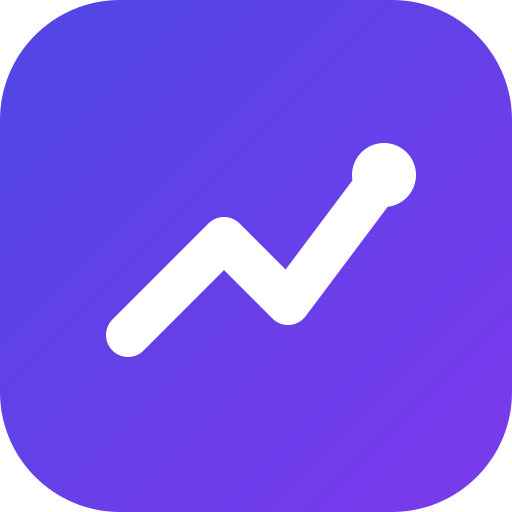
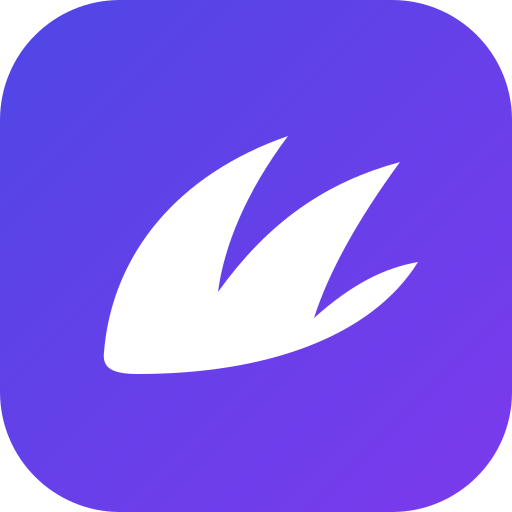
เปลี่ยนไอคอนเป็นรูปปีก · ตัด "บัญชีร้าน" และยอดรวมทุกบัญชีออก
ไอคอน
  เปลี่ยนจากเส้นกราฟขาขึ้นเป็นรูปปีกที่มีขนซ้อนกันสามชั้น
  วาดเป็นทรงตันชิ้นเดียว ไม่ใช้เส้นบาง เพราะต้องอ่านออกตอนเป็น favicon
  ขนาด 16px ซึ่งเส้นบางจะหายไปกลายเป็นจุดเบลอ
  สร้าง PNG ใหม่ครบทุกขนาดจากต้นฉบับ SVG ไฟล์เดียว

ตัดข้อความออก
  "บัญชีร้าน" ใต้ชื่อแอปที่หน้าล็อกอิน และในชื่อของ manifest
  เหลือ tidpeek อย่างเดียว

ตัดยอดรวมทุกบัญชีออกจากแถบบน
  ยอดรวมจะถูกต้องก็ต่อเมื่อตั้งยอดตั้งต้นของทุกบัญชีไว้ตรงกับความจริง
  ถ้ายังไม่ได้ตั้ง มันจะโชว์ติดลบทั้งที่เงินจริงไม่ได้ติดลบ
  ตัวเลขที่ผิดแย่กว่าไม่มีตัวเลข เพราะคนจะเชื่อแล้วตัดสินใจผิด
  ยอดรายบัญชียังดูได้ที่หน้าตั้งค่า
  ลบ getTotalBalance ที่กลายเป็นโค้ดตายทิ้งด้วย

กันไฟล์สำรองไม่ให้ขึ้น git
  backup*.json และไฟล์ที่ส่งออก มีชื่อร้านกับรายการเงินอยู่ข้างใน

Changed region(s): [[0.1875, 0.25, 0.8125, 0.75], [0.6562, 0.2812, 0.8125, 0.5312]]

diff --git a/src/app/(app)/layout.tsx b/src/app/(app)/layout.tsx
@@ -1,9 +1,7 @@
 import Link from "next/link";
 import { redirect } from "next/navigation";
 import { Nav } from "@/components/nav";
-import { getTotalBalance } from "@/db/queries";
 import { hasSession } from "@/lib/auth";
-import { bahtShort } from "@/lib/money";
 import { getSelectedShop } from "@/lib/shop";
 
 // ทุกหน้าในกลุ่มนี้อ่าน cookie และข้อมูลสด จึงต้อง render ตอนมีคำขอเสมอ
@@ -20,9 +18,15 @@ export const runtime = "nodejs";
  * การ์ดนี้กันคนเข้าหน้าเว็บ ส่วนการเขียนข้อมูลมีการ์ดของตัวเองอีกชั้น
  * อยู่ในทุก server action เพราะ action ยิงตรงได้โดยไม่ผ่าน layout นี้
  *
- * เดิมมีแถบการ์ดยอดแต่ละบัญชีอยู่ตรงนี้ เอาออกไปแล้วเพื่อให้ v1 เบาลง
- * เหลือแค่ยอดรวมบนแถบบน ส่วนการแยกดูรายบัญชีจะกลับมาในรูปแบบการจัดกลุ่ม
- * ที่หน้าสรุปกับรายวันแทน
+ * แถบบนเหลือแค่ชื่อร้านอย่างเดียว
+ *
+ * เดิมมีการ์ดยอดแต่ละบัญชีและยอดรวมทุกบัญชี เอาออกทั้งคู่แล้ว
+ * เพราะยอดรวมจะถูกก็ต่อเมื่อตั้งยอดตั้งต้นของทุกบัญชีไว้ตรงกับความจริง
+ * ถ้ายังไม่ได้ตั้ง มันจะโชว์ติดลบทั้งที่เงินจริงไม่ได้ติดลบ
+ * ตัวเลขที่ผิดแย่กว่าไม่มีตัวเลข เพราะคนจะเชื่อแล้วตัดสินใจผิด
+ *
+ * ยอดรายบัญชียังดูได้ที่หน้าตั้งค่า ส่วนการแยกดูแบบจัดกลุ่มจะกลับมา
+ * ที่หน้าสรุปกับรายวันทีหลัง
  */
 export default async function AppLayout({ children }: { children: React.ReactNode }) {
   if (!(await hasSession())) redirect("/login");
@@ -33,16 +37,14 @@ export default async function AppLayout({ children }: { children: React.ReactNod
   // เด้งไปให้เลือกใหม่ ไม่เดาร้านให้เอง
   if (!shop) redirect("/shops");
 
-  const total = await getTotalBalance(shop.id);
-
   return (
     <div className="min-h-dvh">
       {/**
-       * แถบบนติดหนึบตอนเลื่อน เพราะชื่อร้านกับยอดรวมคือบริบทที่ต้องเห็น
-       * ตลอดเวลา ไม่งั้นพอเลื่อนดูรายการยาวๆ แล้วลืมว่ากำลังดูร้านไหนอยู่
+       * แถบบนติดหนึบตอนเลื่อน เพราะชื่อร้านคือบริบทที่ต้องเห็นตลอดเวลา
+       * ไม่งั้นพอเลื่อนดูรายการยาวๆ แล้วลืมว่ากำลังดูร้านไหนอยู่
        */}
       <header className="sticky top-0 z-30 border-b border-line bg-surface/90 pt-[env(safe-area-inset-top)] backdrop-blur-md">
-        <div className="mx-auto flex max-w-2xl items-center justify-between gap-3 px-4 py-2">
+        <div className="mx-auto flex max-w-2xl items-center gap-3 px-4 py-2">
           {/* ชื่อร้านเป็นลิงก์กลับไปหน้าเลือกร้าน ซึ่งเป็นที่เดียวที่สลับร้านได้
               จงใจไม่ทำเป็นดรอปดาวน์ในแถบนี้ เพราะสลับร้านพลาดระหว่างกรอก
               จะทำให้บันทึกลงผิดร้านโดยไม่ทันสังเกต */}
@@ -65,14 +67,6 @@ export default async function AppLayout({ children }: { children: React.ReactNod
             </svg>
             <span className="sr-only">เปลี่ยนร้าน</span>
           </Link>
-
-          <div className="text-right">
-            <div className="text-[11px] leading-none text-ink-soft">เงินรวมทุกบัญชี</div>
-            <div className="num text-base leading-tight font-bold text-ink">
-              {bahtShort(total)}
-              <span className="ml-1 text-xs font-normal text-ink-soft">บาท</span>
-            </div>
-          </div>
         </div>
       </header>
 

diff --git a/src/app/login/page.tsx b/src/app/login/page.tsx
@@ -62,7 +62,6 @@ export default async function LoginPage() {
           <h1 className="mt-3 text-xl leading-tight font-bold tracking-tight text-ink">
             tidpeek
           </h1>
-          <p className="text-xs text-ink-soft">บัญชีร้าน</p>
         </header>
 
         <LoginForm />
@@ -82,18 +81,18 @@ export default async function LoginPage() {
 function Mark() {
   return (
     <div className="bg-brand-gradient flex size-12 items-center justify-center rounded-2xl shadow-lg shadow-brand/30">
-      <svg
-        viewBox="0 0 512 512"
-        fill="none"
-        stroke="white"
-        strokeWidth={44}
-        strokeLinecap="round"
-        strokeLinejoin="round"
-        className="size-7"
-        aria-hidden
-      >
-        <path d="M128 335 L224 239 L288 303 L384 175" />
-        <circle cx="384" cy="175" r="32" fill="white" stroke="none" />
+      <svg viewBox="0 0 512 512" className="size-7" aria-hidden>
+        <path
+          fill="white"
+          d="M104 352
+             C 112 254 178 174 288 136
+             C 246 192 224 246 218 292
+             C 268 222 326 182 400 162
+             C 356 222 328 274 314 318
+             C 352 284 384 268 418 262
+             C 372 336 268 374 138 374
+             C 112 374 102 368 104 352 Z"
+        />
       </svg>
     </div>
   );

diff --git a/src/db/queries.ts b/src/db/queries.ts
@@ -210,16 +210,6 @@ export async function listAllAccountsForShop(shopId: string): Promise<AccountWit
     .orderBy(desc(accounts.isActive), asc(accounts.sortOrder), asc(accounts.name));
 }
 
-/** ยอดรวมทุกบัญชีที่ร้านนี้ใช้ — รวมใน SQL ไม่ใช่บวกจากรายการข้างบน */
-export async function getTotalBalance(shopId: string): Promise<string> {
-  const [row] = await db
-    .select({ total: sql<string>`coalesce(sum(${balanceExpr}), 0)` })
-    .from(accounts)
-    .where(and(visibleToShop(shopId), eq(accounts.isActive, true)));
-
-  return row?.total ?? "0";
-}
-
 /* ------------------------------------------------------------------ */
 /*  ประเภท                                                             */
 /* ------------------------------------------------------------------ */

diff --git a/src/app/manifest.ts b/src/app/manifest.ts
@@ -11,7 +11,7 @@ import type { MetadataRoute } from "next";
  */
 export default function manifest(): MetadataRoute.Manifest {
   return {
-    name: "tidpeek — บัญชีร้าน",
+    name: "tidpeek",
     // ชื่อใต้ไอคอนบนหน้าโฮม ยาวเกินจะโดนตัดด้วย … จึงใช้ชื่อแอปล้วน
     short_name: "tidpeek",
     description: "บันทึกรายรับรายจ่ายรายวัน สรุปกำไรรายวัน รายเดือน รายปี แยกตามร้าน",
